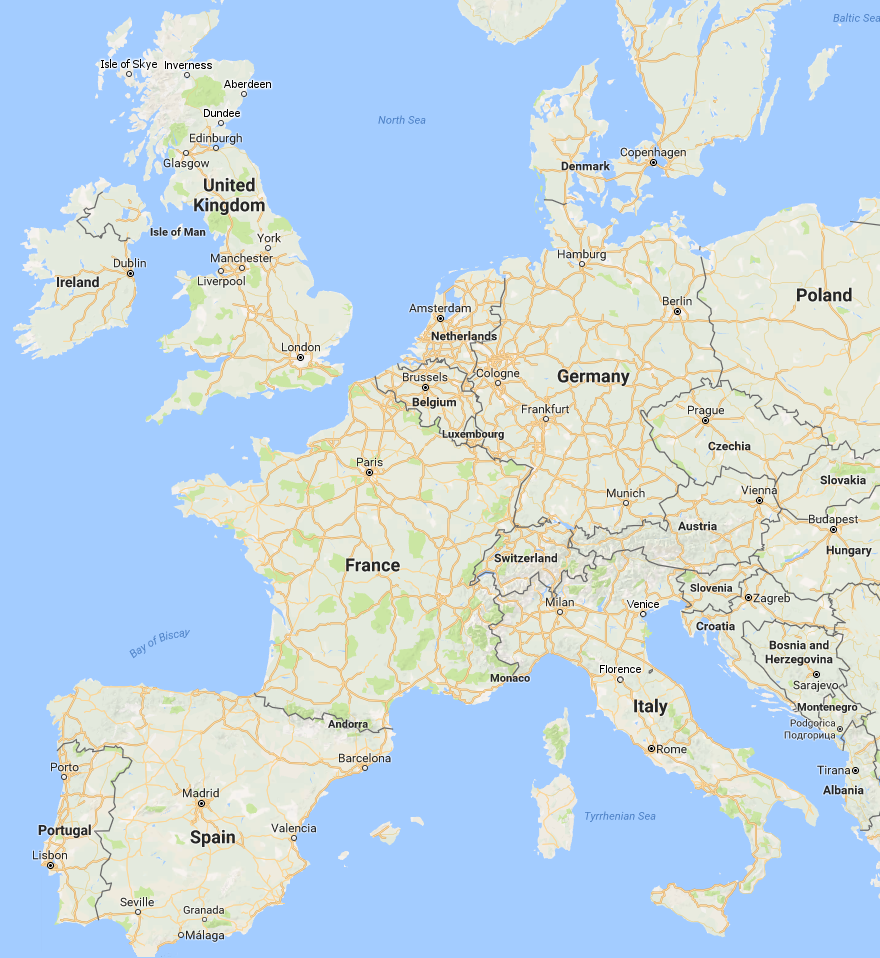
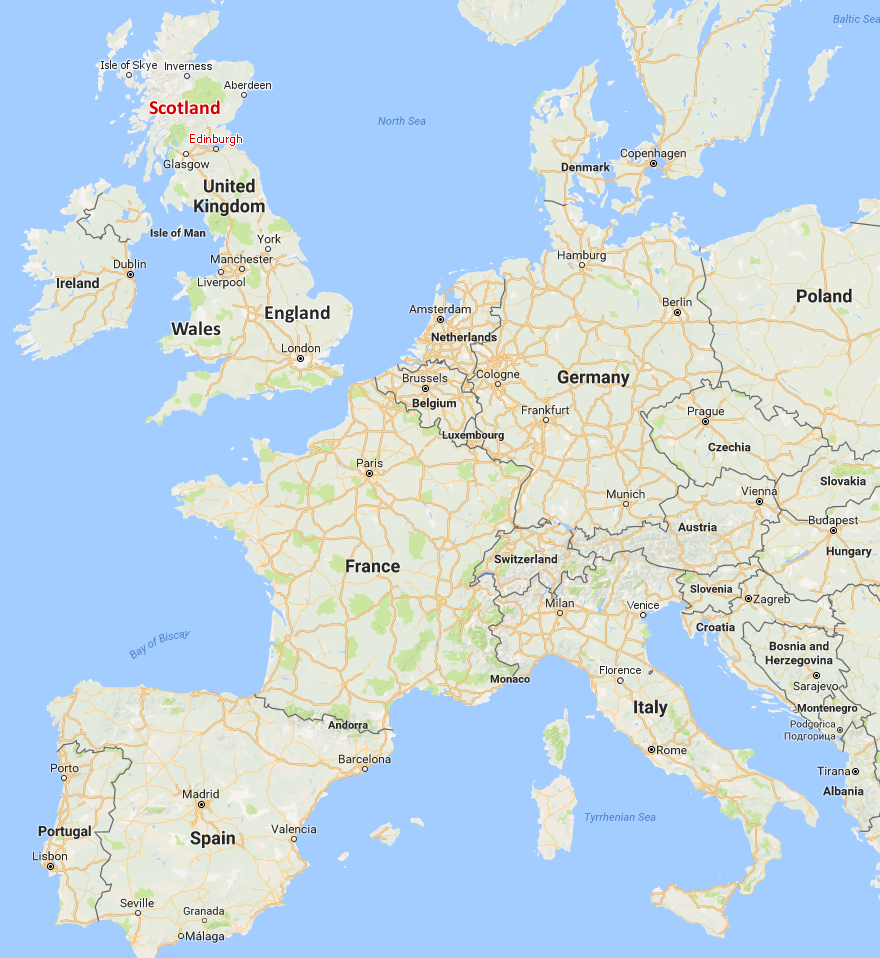
PHP map

diff --git a/index.html b/index.html
@@ -42,7 +42,7 @@
                 <div class="row">
                     <div class="col-md-8 col-md-offset-2">
                         <h1 class="brand-heading">Caileigh's Study Abroad Blog</h1>
-                        <p class="intro-text">The tale of a lassie exploring Europe.
+                        <p class="intro-text">Tales of a lassie exploring Europe.
                             <br>Click below to start reading.</p>
                         <a href="#map" class="btn btn-circle page-scroll">
                             <i class="fa fa-angle-double-down animated"></i>
@@ -61,12 +61,19 @@
 			</div>
 			<div class="col-xs-12 col-sm-12 col-md-12 col-lg-10">
                 <h2>Choose a country or a city</h2>
+
+				<!-- http://coursesweb.net/html/image-map -->
+				<center><p><div id="mapimage">
+				<img src="map.png" alt="map" usemap="#europe">
+				<map name="europe">
+					<area shape="rect" coords="144,96,224,120" href="https://caileighmarshall.github.io/abroad/posts/09-08-2017.html?search=scotland">	<!-- Scotland -->
+						<area shape="rect" coords="190,130,244,153" href="https://caileighmarshall.github.io/abroad/posts/09-08-2017.html?search=edinburgh">	<!-- Edinburgh -->
+
+				</map>
+				</div></p></center>
 				
-				<center><p><div id="mapimage"><img src = "map.png"></div></p></center>
-				
+
 				<div id="mapbutton">
-				
-				
 				<center>
 				<table>
 					<tr>
@@ -74,8 +81,8 @@
 						<th>City</th>
 					</tr>	
 				  <tr>
-					<td rowspan="1"><a href="http://www.google.com" target="_blank"><div id="country">Scotland</div></a></td>
-					<td><a href="http://www.google.com" target="_blank">Edinburgh</a></td>
+					<td rowspan="1"><a href="https://caileighmarshall.github.io/abroad/posts/09-08-2017.html?search=scotland" target="_blank"><div id="country">Scotland</div></a></td>
+					<td><a href="https://caileighmarshall.github.io/abroad/posts/09-08-2017.html?search=edinburgh" target="_blank">Edinburgh</a></td>
 				  </tr>
 				  <!--<tr>
 					<td><a href="http://www.google.com" target="_blank">Glasgow</a></td>

diff --git a/css/grayscale.css b/css/grayscale.css
@@ -29,7 +29,7 @@ h6 {
 
 p {
   margin: 0 0 25px;
-  font-size: 18px;
+  font-size: 16px;
   line-height: 1.5;
 }
 @media (min-width: 768px) {
@@ -369,6 +369,7 @@ ul.banner-social-buttons {
   ul.banner-social-buttons li:last-child {
     margin-bottom: 0;
   }
+  
 }
 footer {
   padding: 50px 0;
